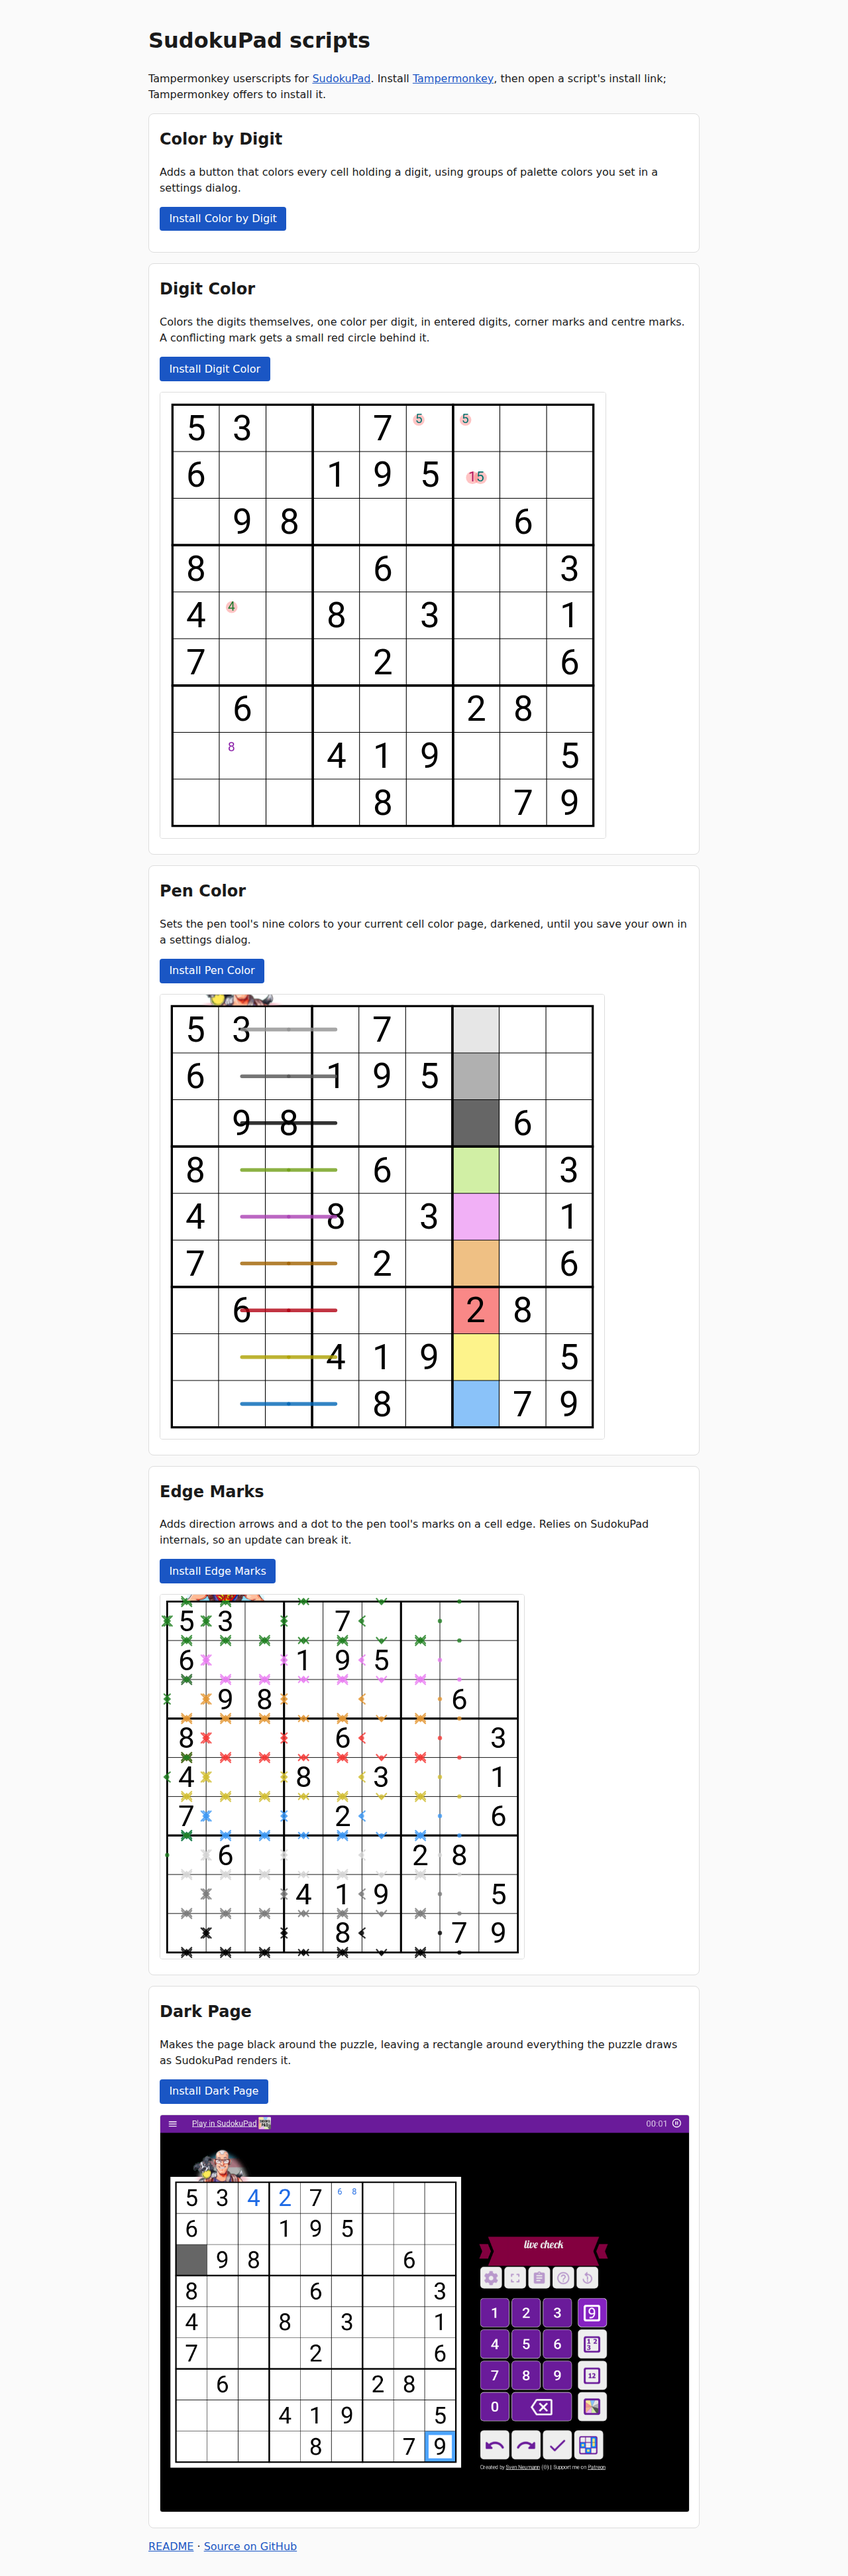
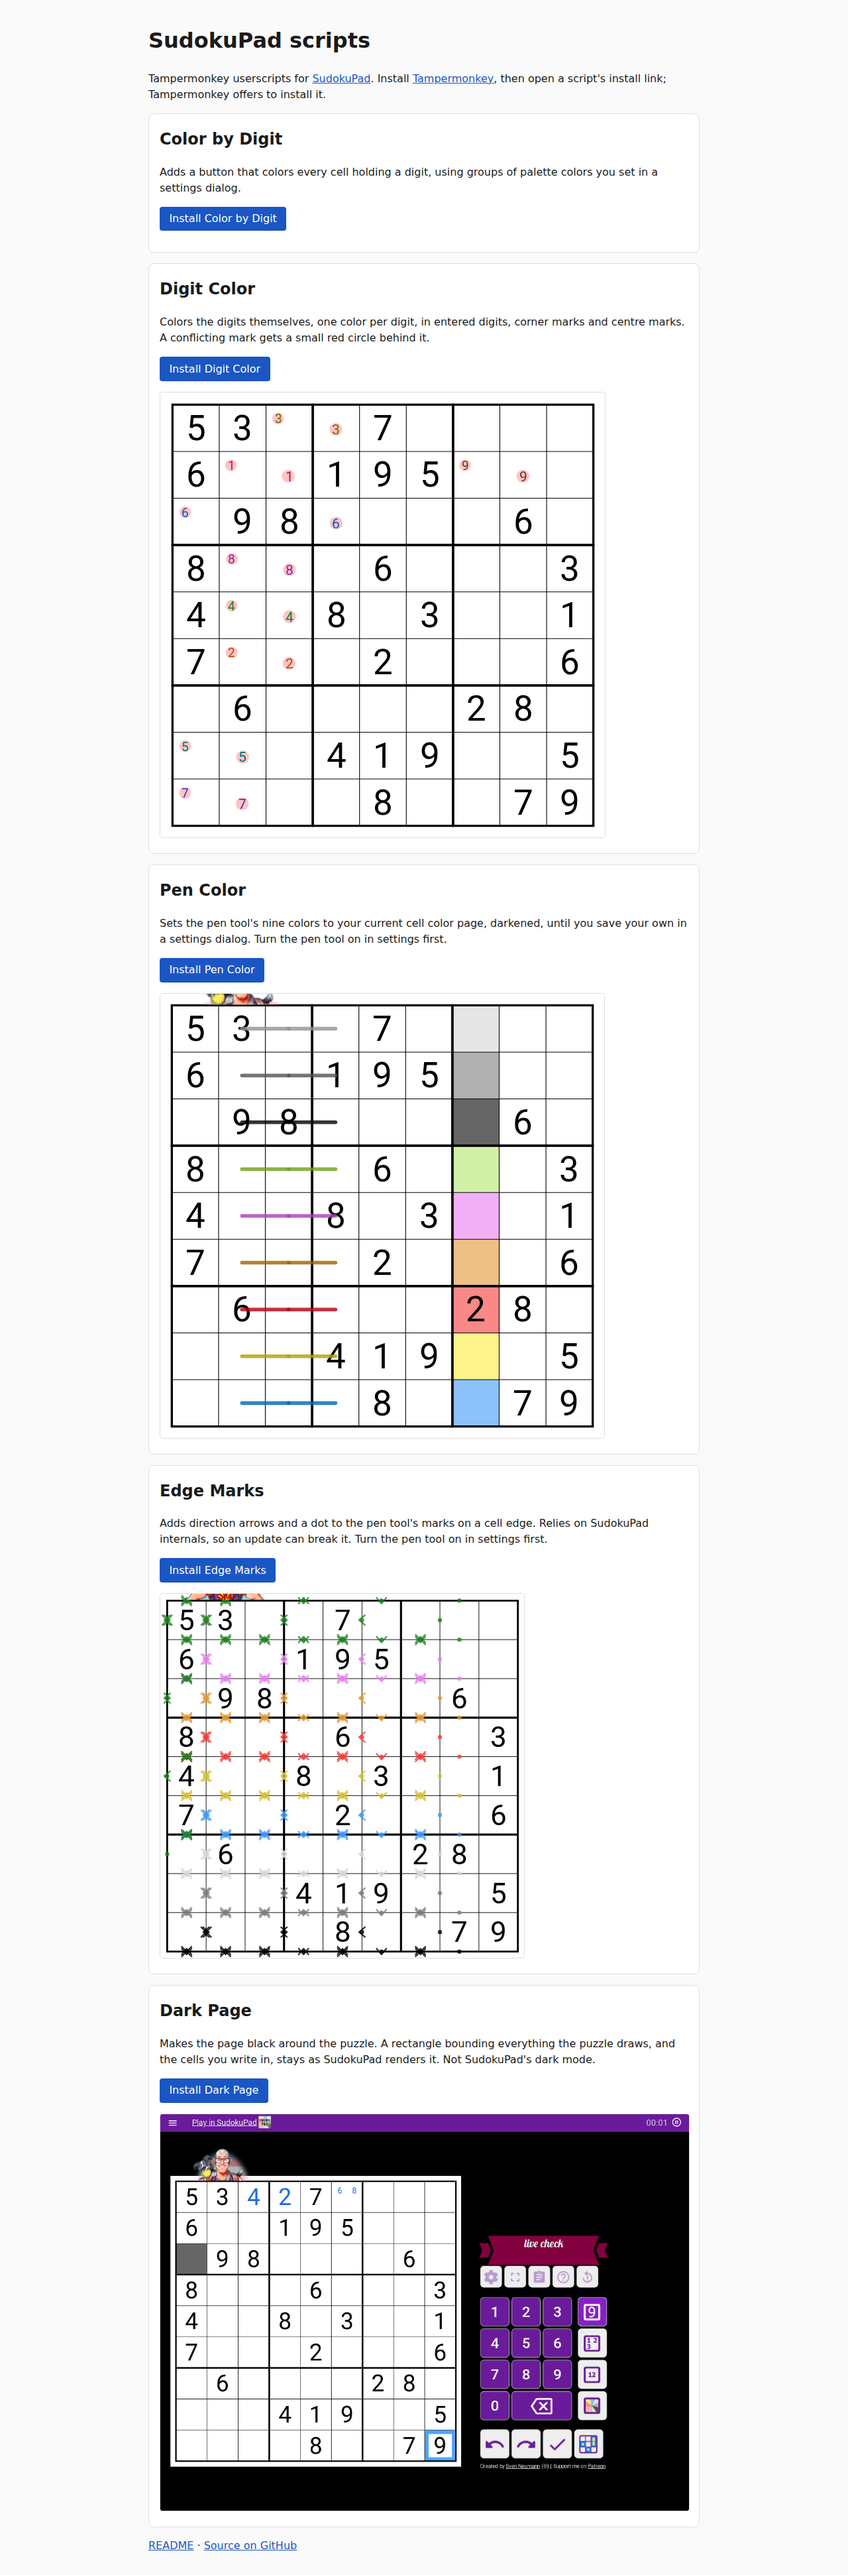
Homepage: Digit Color card shows the centred-circles screenshot from #19

diff --git a/site/index.html b/site/index.html
@@ -27,7 +27,7 @@
       <h2>Digit Color</h2>
       <p>Colors the digits themselves, one color per digit, in entered digits, corner marks and centre marks. A conflicting mark gets a small red circle behind it.</p>
       <p><a class="install" href="https://raw.githubusercontent.com/caneff/sudokupad-scripts/main/digit-color.user.js">Install Digit Color</a></p>
-      <img src="https://raw.githubusercontent.com/caneff/sudokupad-scripts/main/docs/research/digit-color-conflict-circle.png" alt="Digit Color in SudokuPad" loading="lazy">
+      <img src="https://raw.githubusercontent.com/caneff/sudokupad-scripts/main/docs/research/digit-color-centred-circles.png" alt="Digit Color in SudokuPad" loading="lazy">
     </article>
     <article>
       <h2>Pen Color</h2>
